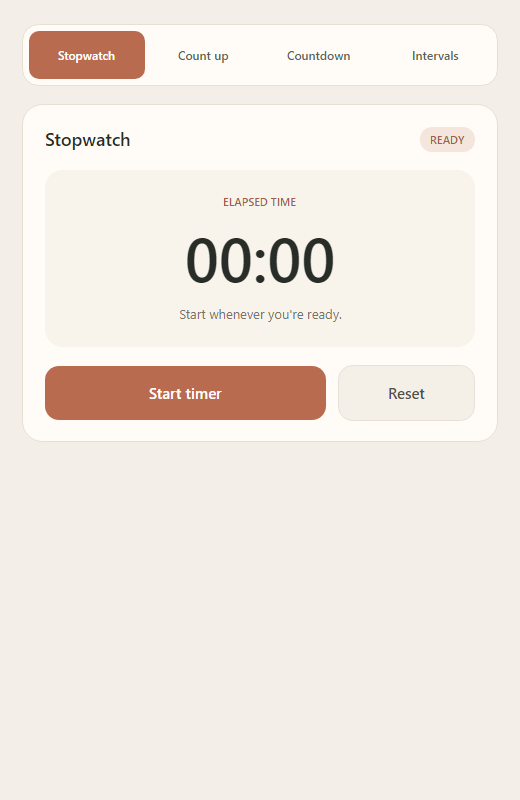
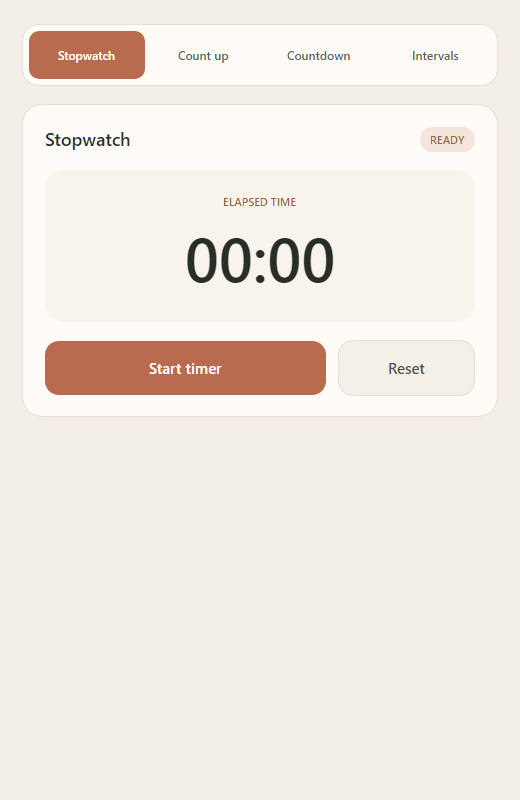
Simplify timer labels and previews

Changed region(s): [[0.0615, 0.375, 0.6462, 0.5312], [0.7385, 0.4375, 0.8308, 0.5]]

diff --git a/Timer/ViewModels/MainViewModel.cs b/Timer/ViewModels/MainViewModel.cs
@@ -61,6 +61,7 @@ public partial class MainViewModel : ViewModelBase
     [ObservableProperty] private bool _hasProgress;
 
     public bool HasError => !string.IsNullOrEmpty(ErrorMessage);
+    public bool HasDetailLabel => !string.IsNullOrEmpty(DetailLabel);
 
     partial void OnDurationMinutesChanged(string value) => RefreshReadyPreview();
     partial void OnDurationSecondsChanged(string value) => RefreshReadyPreview();
@@ -72,6 +73,7 @@ public partial class MainViewModel : ViewModelBase
     partial void OnRestSecondsChanged(string value) => RefreshReadyPreview();
     partial void OnRoundsChanged(string value) => RefreshReadyPreview();
     partial void OnErrorMessageChanged(string value) => OnPropertyChanged(nameof(HasError));
+    partial void OnDetailLabelChanged(string value) => OnPropertyChanged(nameof(HasDetailLabel));
 
     [RelayCommand] private void SelectStopwatch() => SelectMode(TimerMode.Stopwatch);
     [RelayCommand] private void SelectCountUp() => SelectMode(TimerMode.CountUp);
@@ -162,7 +164,7 @@ public partial class MainViewModel : ViewModelBase
             Refresh();
         else
         {
-            DisplayTime = "--:--";
+            DisplayTime = "00:00";
             StatusLabel = "READY";
             PhaseLabel = "SET YOUR TIME";
             DetailLabel = "Check the values below.";
@@ -246,9 +248,7 @@ public partial class MainViewModel : ViewModelBase
         };
         DetailLabel = snapshot.Mode switch
         {
-            TimerMode.Stopwatch => snapshot.Status == TimerStatus.Ready
-                ? "Start whenever you're ready."
-                : "A little time, well spent.",
+            TimerMode.Stopwatch => string.Empty,
             TimerMode.CountUp => $"Goal  {FormatTime(snapshot.Target!.Value)}",
             TimerMode.Countdown => $"From  {FormatTime(snapshot.Target!.Value)}",
             TimerMode.Intervals => snapshot.Phase == IntervalPhase.Prepare

diff --git a/Timer.App.Tests/MainViewModelTests.cs b/Timer.App.Tests/MainViewModelTests.cs
@@ -31,7 +31,7 @@ public sealed class MainViewModelTests
 
         viewModel.DurationSeconds = "75";
         Assert.IsTrue(viewModel.HasError);
-        Assert.AreEqual("--:--", viewModel.DisplayTime);
+        Assert.AreEqual("00:00", viewModel.DisplayTime);
 
         viewModel.DurationSeconds = "30";
         Assert.IsFalse(viewModel.HasError);
@@ -68,6 +68,7 @@ public sealed class MainViewModelTests
     public void SwitchingModesResetsTheSession()
     {
         var viewModel = new MainViewModel();
+        Assert.IsFalse(viewModel.HasDetailLabel);
         viewModel.StartOrPauseCommand.Execute(null);
         Assert.AreEqual("RUNNING", viewModel.StatusLabel);
 
